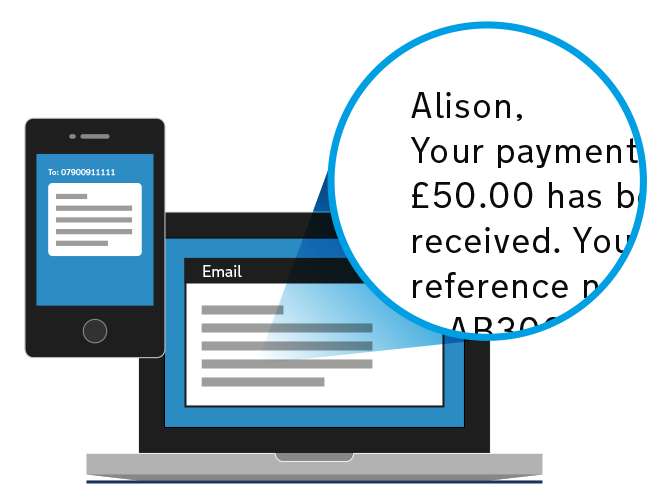
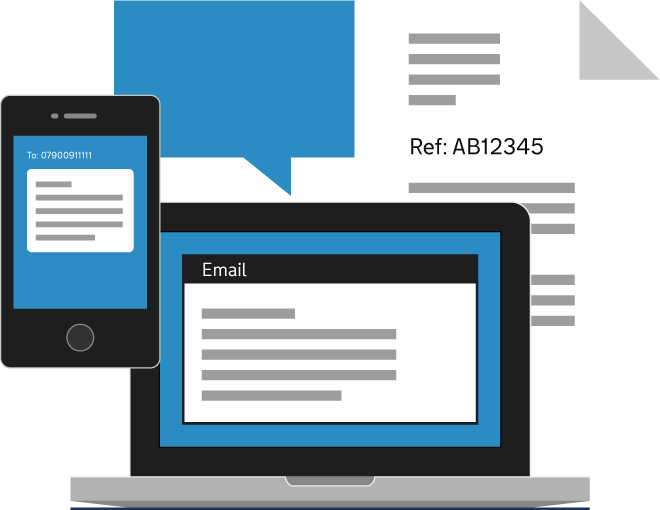
Update product page to talk about letters
Letters is now a mature enough feature that we should:
- be raising awareness amongst our users that it’s a thing we offer
- not have letters be a surprise to anyone creating a Notify account for
  the first time

Shouldn’t be merged until:
- [ ] https://github.com/alphagov/notifications-api/pull/1600

diff --git a/app/templates/views/signedout.html b/app/templates/views/signedout.html
@@ -1,7 +1,7 @@
 {% extends "fullwidth_template.html" %}
 
 {% block meta %}
-  <meta name="description" content="GOV.UK Notify lets you send emails and text messages to your users. Try it now if you work in central government, a local authority, or the NHS.">
+  <meta name="description" content="GOV.UK Notify lets you send emails, text messages and letters to your users. Try it now if you work in central government, a local authority, or the NHS.">
 {% endblock %}
 
 {% block page_title %}
@@ -25,7 +25,7 @@
       <div class="grid-row">
         <div class="column-two-thirds">
           <h1>
-            Send emails and text messages to your users
+            Send emails, text messages and letters to your users
           </h1>
           <p>
             Try GOV.UK Notify now if you work in central government, a&nbsp;local authority, or the NHS.
@@ -49,8 +49,8 @@
           Control your content
         </h2>
         <p>
-          You don’t need any technical knowledge to create email and
-          text&nbsp;message templates.
+          You don’t need any technical knowledge to create email,
+          text&nbsp;message or letter templates.
         </p>
       </div>
       <div class="column-half">
@@ -147,14 +147,17 @@
         <div class="column-half">
           <h3 class="visually-hidden">Text messages</h3>
           <div class="product-page-big-number">250,000</div>
-          free text messages a year, then
-          1.58 pence per message
+          free text messages a year,<br>
+          then 1.58 pence per message
         </div>
-      </div>
-      <div class="grid-row bottom-gutter">
-        <div class="column-three-quarters">
-          <p>
-            There’s no monthly charge, no setup fee and no procurement process.
+        <div class="column-half">
+          <h3 class="visually-hidden">Letters</h3>
+          <div class="product-page-big-number">30 pence</div>
+          to print and post a one page letter
+        </div>
+        <div class="column-half">
+          <p class="align-with-big-number-hint">
+            There’s no monthly charge, no setup fee and no&nbsp;procurement process.
           </p>
         </div>
       </div>

diff --git a/app/assets/stylesheets/views/product-page.scss b/app/assets/stylesheets/views/product-page.scss
@@ -16,7 +16,7 @@
         background-image: file-url('product/proposition-illustration.png');
         background-size: 320px;
         background-repeat: no-repeat;
-        background-position: right -6px top 85px;
+        background-position: right -6px top 100px;
 
         @include ie-lte(8) {
           background-image: none;

diff --git a/app/assets/stylesheets/_grids.scss b/app/assets/stylesheets/_grids.scss
@@ -95,6 +95,10 @@
   text-align: right;
 }
 
+.align-with-big-number-hint {
+  margin-top: $gutter / 0.6;
+}
+
 .global-cookie-message {
   p {
     @extend %site-width-container;

diff --git a/tests/app/main/views/test_index.py b/tests/app/main/views/test_index.py
@@ -11,8 +11,14 @@ def test_non_logged_in_user_can_see_homepage(
 
     page = BeautifulSoup(response.data.decode('utf-8'), 'html.parser')
 
-    assert page.select_one('meta[name=description]')['content'].startswith(
-        'GOV.UK Notify lets you send emails and text messages'
+    assert page.h1.text.strip() == (
+        'Send emails, text messages and letters to your users'
+    )
+
+    assert page.select_one('meta[name=description]')['content'].strip() == (
+        'GOV.UK Notify lets you send emails, text messages and letters '
+        'to your users. Try it now if you work in central government, a '
+        'local authority, or the NHS.'
     )
 
 
